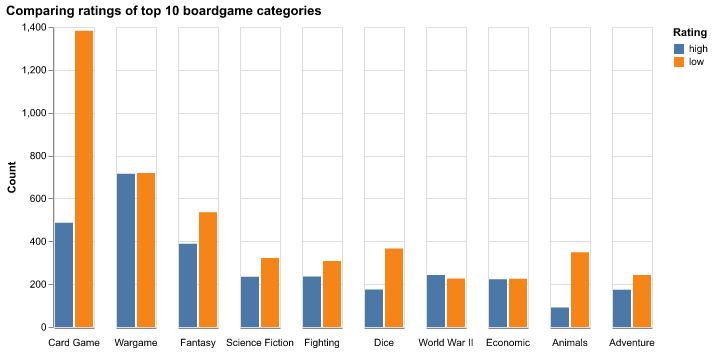
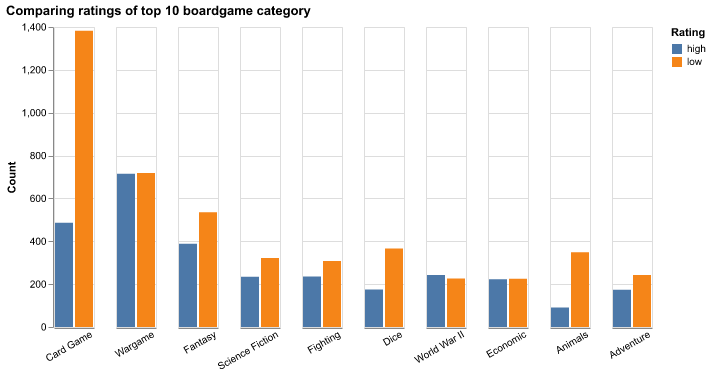
refactored plot top 10 categorical features code

diff --git a/src/eda_boardgame.py b/src/eda_boardgame.py
@@ -49,9 +49,12 @@ def main(in_file, out_dir):
 
     rating_plot = plot_rating_distribution(train_df)
     numeric_feats_bar_plot = plot_numeric_feature_distribution(train_df)
-    top_10_categories_plot = plot_top_10_categories(binarized_rating_df)
-    top_10_mechanics_plot = plot_top_10_mechanics(binarized_rating_df)
-    top_10_families_plot = plot_top_10_families(binarized_rating_df)
+    # top_10_categories_plot = plot_top_10_categories(binarized_rating_df)
+    # top_10_mechanics_plot = plot_top_10_mechanics(binarized_rating_df)
+    # top_10_families_plot = plot_top_10_families(binarized_rating_df)
+    top_10_categories_plot = plot_top_10(binarized_rating_df, "boardgamecategory")
+    top_10_mechanics_plot = plot_top_10(binarized_rating_df, "boardgamemechanic")
+    top_10_families_plot = plot_top_10(binarized_rating_df, "boardgamefamily")
     save_chart(rating_plot, out_dir + "rating_distribution.png")
     save_chart(numeric_feats_bar_plot, out_dir + "numeric_feature_distribution.png")
     save_chart(top_10_categories_plot, out_dir + "top_10_boardgame_categories.png")
@@ -100,70 +103,97 @@ def plot_numeric_feature_distribution(df):
     )
     return numeric_feats_bar_chart
 
+def plot_top_10(df, feature):
+    '''
+    Creates a bar chart of the top 10 values for the given feature in the data frame
 
-def plot_top_10_categories(df):
+    Parameters:
+    ----------
+    df : pandas DataFrame
+    feature : string
+        feature to plot the top 10 values for
     '''
-    Creates a bar chart of the top 10 boardgame categories
-    '''
-    category_binary_df = binarize_list_column(df, "boardgamecategory")
-    top_10_categories = category_binary_df.sum(numeric_only=True).sort_values(ascending=False)[1:11].index.tolist()
-    category_long = df_to_long_format(category_binary_df, "boardgamecategory")
-    top_10_categories_plot = alt.Chart(
-        category_long.query("boardgamecategory in @top_10_categories"),
-        title = "Comparing ratings of top 10 boardgame categories"
+    binarized_df = binarize_list_column(df, feature)
+    top_10 = binarized_df.sum(numeric_only=True).sort_values(ascending=False)[1:11].index.tolist()
+    category_long = df_to_long_format(binarized_df, feature)
+    top_10_plot = alt.Chart(
+        category_long[category_long[feature].isin(top_10)],
+        title = f"Comparing ratings of top 10 {feature[0:9] + ' ' + feature[9:]}"
     ).mark_bar().encode(
         x = alt.X("rating", axis=alt.Axis(title=None, labels=False, ticks=False)),
         y = alt.Y("value", title="Count"),
-        column = alt.Column('boardgamecategory', header=alt.Header(title=None, labelOrient='bottom'), sort=top_10_categories),
-        color = alt.Color("rating", title="Rating")
-    )
-    return top_10_categories_plot
-
-
-def plot_top_10_mechanics(df):
-    '''
-    Creates a bar chart of the top 10 boardgame mechanics
-    '''
-    mechanic_count_df = binarize_list_column(df, "boardgamemechanic")
-    top_10_mechanics = mechanic_count_df.sum(numeric_only=True).sort_values(ascending=False)[1:11].index.tolist()
-    mechanic_long = df_to_long_format(mechanic_count_df, "boardgamemechanic")
-    top_10_mechanic_plot = alt.Chart(
-        mechanic_long.query("boardgamemechanic in @top_10_mechanics"),
-        title = "Comparing ratings of top 10 boardgame mechanics"
-    ).mark_bar().encode(
-        alt.X("rating", axis=alt.Axis(title=None, labels=False, ticks=False)),
-        alt.Y("value", title="Count"),
         column = alt.Column(
-            'boardgamemechanic', 
+            feature, 
             header = alt.Header(title=None, labelOrient='bottom', labelAngle=330, labelAnchor="end"),
-            sort = top_10_mechanics
+            sort = top_10
         ),
         color = alt.Color("rating", title="Rating")
     )
-    return top_10_mechanic_plot
+    return top_10_plot
+
+# def plot_top_10_categories(df):
+#     '''
+#     Creates a bar chart of the top 10 boardgame categories
+#     '''
+#     category_binary_df = binarize_list_column(df, "boardgamecategory")
+#     top_10_categories = category_binary_df.sum(numeric_only=True).sort_values(ascending=False)[1:11].index.tolist()
+#     category_long = df_to_long_format(category_binary_df, "boardgamecategory")
+#     top_10_categories_plot = alt.Chart(
+#         category_long.query("boardgamecategory in @top_10_categories"),
+#         title = "Comparing ratings of top 10 boardgame categories"
+#     ).mark_bar().encode(
+#         x = alt.X("rating", axis=alt.Axis(title=None, labels=False, ticks=False)),
+#         y = alt.Y("value", title="Count"),
+#         column = alt.Column('boardgamecategory', header=alt.Header(title=None, labelOrient='bottom'), sort=top_10_categories),
+#         color = alt.Color("rating", title="Rating")
+#     )
+#     return top_10_categories_plot
 
 
-def plot_top_10_families(df):
-    '''
-    Creates a bar chart of the top 10 boardgame families
-    '''
-    family_count_df = binarize_list_column(df, "boardgamefamily")
-    top_10_families = family_count_df.sum(numeric_only=True).sort_values(ascending=False)[1:11].index.tolist()
-    family_long = df_to_long_format(family_count_df, "boardgamefamily")
-    top_10_family_plot = alt.Chart(
-        family_long.query("boardgamefamily in @top_10_families"),
-        title = "Comparing ratings of top 10 boardgame families"
-    ).mark_bar().encode(
-        alt.X("rating", axis=alt.Axis(title=None, labels=False, ticks=False)),
-        alt.Y("value", title="Count"),
-        column = alt.Column(
-            'boardgamefamily', 
-            header = alt.Header(title=None, labelOrient='bottom', labelAngle=330, labelAnchor="end"),
-            sort = top_10_families
-        ),
-        color = alt.Color("rating", title="Rating")
-    )
-    return top_10_family_plot
+# def plot_top_10_mechanics(df):
+#     '''
+#     Creates a bar chart of the top 10 boardgame mechanics
+#     '''
+#     mechanic_count_df = binarize_list_column(df, "boardgamemechanic")
+#     top_10_mechanics = mechanic_count_df.sum(numeric_only=True).sort_values(ascending=False)[1:11].index.tolist()
+#     mechanic_long = df_to_long_format(mechanic_count_df, "boardgamemechanic")
+#     top_10_mechanic_plot = alt.Chart(
+#         mechanic_long.query("boardgamemechanic in @top_10_mechanics"),
+#         title = "Comparing ratings of top 10 boardgame mechanics"
+#     ).mark_bar().encode(
+#         alt.X("rating", axis=alt.Axis(title=None, labels=False, ticks=False)),
+#         alt.Y("value", title="Count"),
+#         column = alt.Column(
+#             'boardgamemechanic', 
+#             header = alt.Header(title=None, labelOrient='bottom', labelAngle=330, labelAnchor="end"),
+#             sort = top_10_mechanics
+#         ),
+#         color = alt.Color("rating", title="Rating")
+#     )
+#     return top_10_mechanic_plot
+
+
+# def plot_top_10_families(df):
+#     '''
+#     Creates a bar chart of the top 10 boardgame families
+#     '''
+#     family_count_df = binarize_list_column(df, "boardgamefamily")
+#     top_10_families = family_count_df.sum(numeric_only=True).sort_values(ascending=False)[1:11].index.tolist()
+#     family_long = df_to_long_format(family_count_df, "boardgamefamily")
+#     top_10_family_plot = alt.Chart(
+#         family_long.query("boardgamefamily in @top_10_families"),
+#         title = "Comparing ratings of top 10 boardgame families"
+#     ).mark_bar().encode(
+#         alt.X("rating", axis=alt.Axis(title=None, labels=False, ticks=False)),
+#         alt.Y("value", title="Count"),
+#         column = alt.Column(
+#             'boardgamefamily', 
+#             header = alt.Header(title=None, labelOrient='bottom', labelAngle=330, labelAnchor="end"),
+#             sort = top_10_families
+#         ),
+#         color = alt.Color("rating", title="Rating")
+#     )
+#     return top_10_family_plot
 
 
 def augment_df(df):
